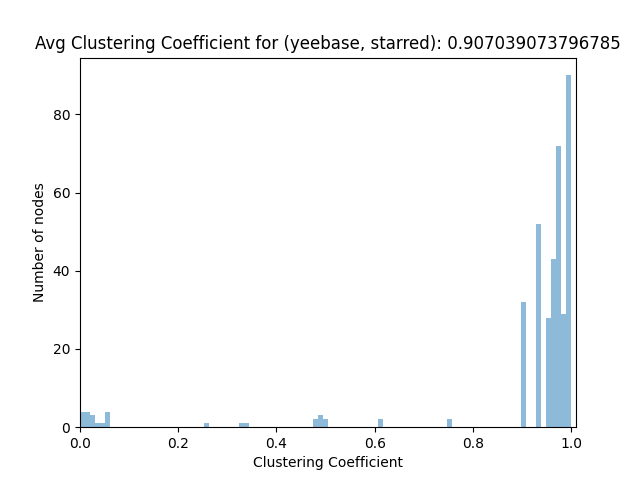
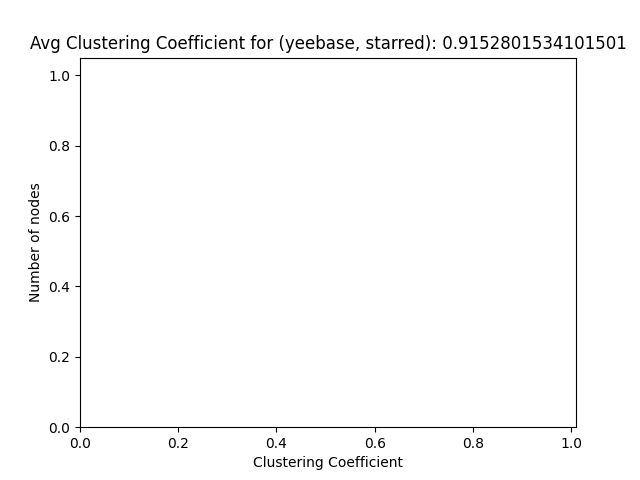
halting: figure out plots

diff --git a/step6_analyseAndPlot/degreeDistribution.py b/step6_analyseAndPlot/degreeDistribution.py
@@ -8,7 +8,7 @@ import operator
 import time
 start=time.time()
 
-def genIndiPlots(orgName, userDict, repoDict, activityType, dest='latest-matrix-plots/'):
+def genIndiPlots(orgName, userDict, repoDict, activityType, dest='data/plots/'):
     # Users with num of repo in desc plot
     user=list(userDict.keys())
     deg=list(userDict.values())
@@ -194,7 +194,7 @@ def genP1toP4(orgName, userDegree, repoDegree, dest='latest-matrix-plots/'):
         # print("[Y] Generated P6")
 
 
-def P7toP8(orgName, activityType, source='gml/user-user-EL/', dest='latest-matrix-plots/'):
+def P7toP8(orgName, activityType, source='../step5_convertB_xGraphsToG_xGraphs/data/user-user-EL/', dest='data/plots/'):
     # P8
     G=nx.read_edgelist(source+orgName+'_'+activityType+'.edgelist')
     pos = nx.spring_layout(G, k=0.25, iterations=50)
@@ -238,8 +238,7 @@ def calcDegreeDist(orgName, source):
         print("errr "+orgName)
     
 def calcDegreeAndPlot(org):
-    userDegree, repoDegree,repoDict, userDict = calcDegreeDist(
-        orgName=org, source='gml/user-repo-GML/')
+    userDegree, repoDegree,repoDict, userDict = calcDegreeDist(orgName=org, source='../step4_convertMatrixToB_xGraphs/data/gml/user-repo-GML/')
     repoDict=dict(sorted(repoDict.items(), key=operator.itemgetter(1), reverse=True))
     # path = 'latest-matrix-plots/'+org
     # path=path.replace('_sub','')
@@ -275,9 +274,9 @@ def allForOrg(org):
 #     allForOrg(org)
 #     break
 
-# org = '10gen'
+org = 'yeebase'
 # sOrg=org+'_sub'
-# allForOrg(org)
+allForOrg(org)
 # allForOrg(sOrg)
 
 # end=time.time()

diff --git a/step6_analyseAndPlot/louvain.py b/step6_analyseAndPlot/louvain.py
@@ -6,8 +6,12 @@ import matplotlib.cm as cm
 
 # org='reddit'
 
+def createFromEL(orgName, activityType, source='../step5_convertB_xGraphsToG_xGraphs/data/user-user-EL/', destDir='data/user-user-GML/'):
+    G = nx.read_edgelist(source+orgName+'_'+activityType+'.edgelist')
+    nx.write_gml(G, destDir+orgName+'_'+activityType+'.gml')
 
-def findCommunity(org, activityType, source='gml/user-user-GML/', dest='latest-matrix-plots/'):
+def findCommunity(org, activityType, source='data/user-user-GML/', dest='data/plots/'):
+    createFromEL(org,activityType)
     G = nx.read_gml(source+org+'_'+activityType+'.gml', label='label')
     partition = community.community_louvain.best_partition(G)
     k=partition.values()
@@ -24,3 +28,5 @@ def findCommunity(org, activityType, source='gml/user-user-GML/', dest='latest-m
     else:
         plt.savefig(dest+org+'/'+org+'_P7_louvain.png')
         plt.clf()
+
+findCommunity('yeebase','starred')

diff --git a/step6_analyseAndPlot/clusteringCoefficient.py b/step6_analyseAndPlot/clusteringCoefficient.py
@@ -6,7 +6,7 @@ import numpy as np
 import math
 
 
-def calcClusteringCoefficient(orgName, activityType, source='gml/user-repo-GML/', dest='latest-matrix-plots/'):
+def calcClusteringCoefficient(orgName, activityType, source='../step4_convertMatrixToB_xGraphs/data/gml/user-repo-GML/', dest='data/plots/'):
     B=nx.read_gml(source+orgName+'_'+activityType+'.gml')
     c=bipartite.clustering(B)
     cValues=list(c.values())
@@ -26,4 +26,4 @@ def calcClusteringCoefficient(orgName, activityType, source='gml/user-repo-GML/'
     plt.clf()
     print("[Y] Generated Clustering Coefficient Graph")
 
-# calcClusteringCoefficient('10gen','starred')
+calcClusteringCoefficient('yeebase','starred')
